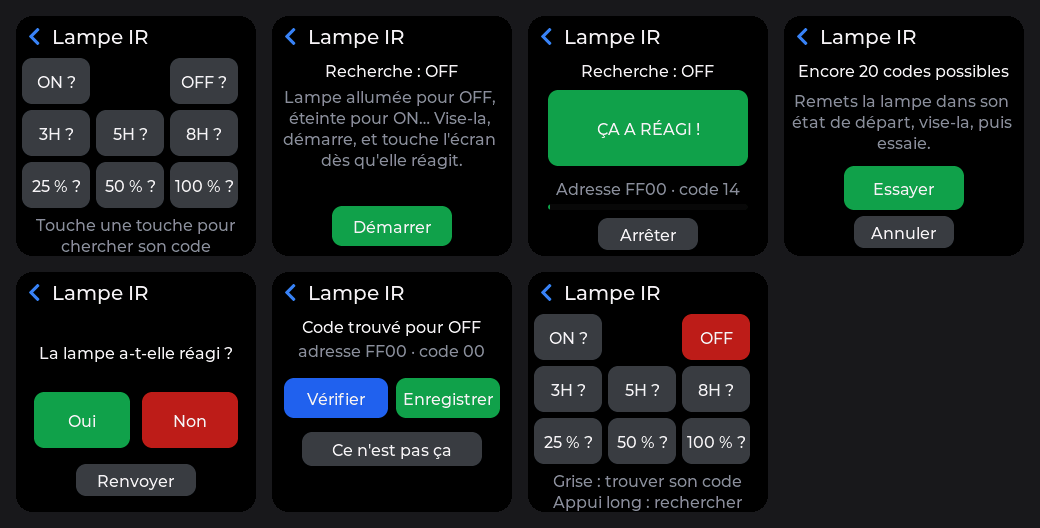
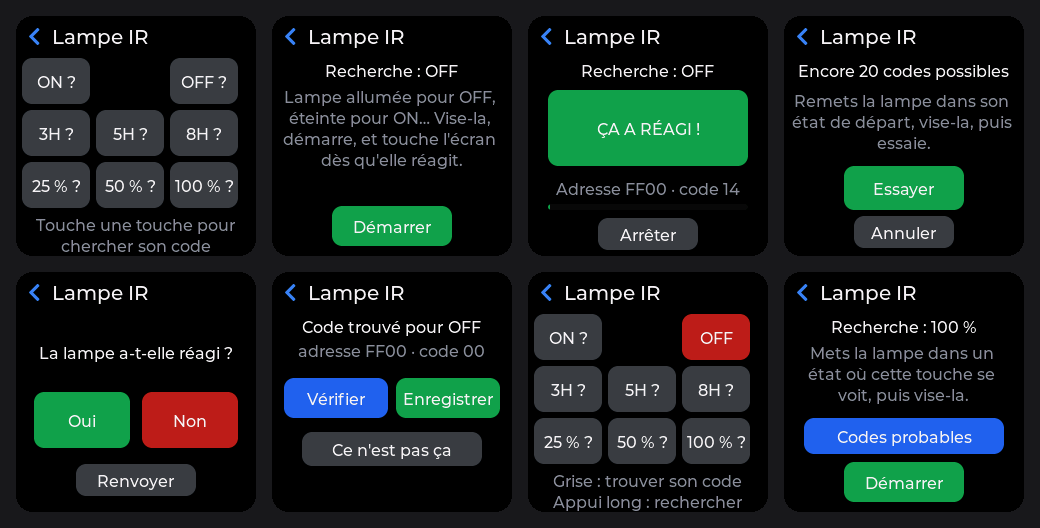
0.32.2 : Lampe IR, retour vers la grille et codes probables
Le retour (bouton ou glissé) depuis une recherche ou l'écran d'un code
revient à la grille au lieu de quitter l'app (nouveau rappel optionnel
on_back() dans app_t). « Codes probables » : recherche par moitiés
directement sur les 21 codes de la télécommande NEC « Car MP3 », que
reprennent beaucoup de lampes solaires.

Claude-Session: https://claude.ai/code/session_01Nqsr6dMwaT8y4hmR3wyTbr

Changed region(s): [[0.7385, 0.5152, 0.9846, 0.9697]]

diff --git a/main/app_irlamp.c b/main/app_irlamp.c
@@ -212,6 +212,36 @@ static void scan_begin(int32_t from)
 }
 
 static void start_cb(lv_event_t *e) { scan_begin(0); }
+
+/* Les 21 codes de la télécommande chinoise « Car MP3 » (NEC), que reprennent
+ * beaucoup de lampes solaires : on les essaie directement par moitiés. */
+static const uint8_t CARMP3[] = {
+    0x45, 0x46, 0x47, 0x44, 0x40, 0x43, 0x07, 0x15, 0x09, 0x16, 0x19,
+    0x0D, 0x0C, 0x18, 0x5E, 0x08, 0x1C, 0x5A, 0x42, 0x52, 0x4A,
+};
+
+static bool known_addr(uint16_t *a)
+{
+    for (int k = 0; k < NKEY; k++) if (s_keys.valid & (1 << k)) { *a = s_keys.addr[k]; return true; }
+    return false;
+}
+
+static void likely_cb(lv_event_t *e)
+{
+    uint16_t a;
+    if (!known_addr(&a)) return;
+    s_ncand = 0;
+    for (size_t i = 0; i < sizeof CARMP3; i++) {
+        bool used = false;                                 /* déjà pris par une autre touche */
+        for (int k = 0; k < NKEY; k++)
+            if (k != s_key && (s_keys.valid & (1 << k)) && s_keys.addr[k] == a && s_keys.cmd[k] == CARMP3[i]) used = true;
+        if (!used) s_cand[s_ncand++] = (sent_t){ a, CARMP3[i], 0, 0 };
+    }
+    s_pos = 0;
+    s_tries = 0;
+    s_half = s_ncand / 2;
+    set_state(ST_TRY);
+}
 static void back_cb(lv_event_t *e) { s_stop = true; set_state(ST_KEYS); }
 
 static void react_cb(lv_event_t *e)
@@ -258,7 +288,7 @@ static void save_cb(lv_event_t *e)
     set_state(ST_KEYS);
 }
 
-static void wrong_cb(lv_event_t *e) { scan_begin(s_cand[0].idx + 1); }
+static void wrong_cb(lv_event_t *e) { scan_begin(s_cand[0].idx + 1); }   /* reprend le balayage après lui */
 
 static void forget_cb(lv_event_t *e)
 {
@@ -327,11 +357,20 @@ static void build(void)
             text(b, 4, C_FG);
             snprintf(b, sizeof b, _("adresse %04X · code %02X"), s_keys.addr[s_key], s_keys.cmd[s_key]);
             text(b, 28, lv_color_hex(0xFACC15));
-            text(_("Démarrer : chercher à nouveau ce code."), 64, C_DIM);
+            text(_("Démarrer : chercher à nouveau ce code."), 56, C_DIM);
         } else {
             snprintf(b, sizeof b, _("Recherche : %s"), KEY_NAME[s_key]);
             text(b, 4, C_FG);
-            text(_("Lampe allumée pour OFF, éteinte pour ON… Vise-la, démarre, et touche l'écran dès qu'elle réagit."), 30, C_DIM);
+            uint16_t a0;
+            if (known_addr(&a0)) text(_("Mets la lampe dans un état où cette touche se voit, puis vise-la."), 30, C_DIM);
+            else text(_("Lampe allumée pour OFF, éteinte pour ON… Vise-la, démarre, et touche l'écran dès qu'elle réagit."), 30, C_DIM);
+        }
+        {
+            uint16_t a;
+            if (known_addr(&a)) {                              /* adresse connue : 21 codes probables */
+                btn(v_body, _("Codes probables"), blue, likely_cb, NULL, 200, 36);
+                lv_obj_align(lv_obj_get_child(v_body, -1), LV_ALIGN_TOP_MID, 0, 106);
+            }
         }
         btn(v_body, _("Démarrer"), green, start_cb, NULL, 120, 40);
         lv_obj_align(lv_obj_get_child(v_body, -1), LV_ALIGN_TOP_MID, s_keys.valid & (1 << s_key) ? -62 : 0, 150);
@@ -432,6 +471,14 @@ static bool on_event(int code) { refresh(); return false; }
 static bool busy(void) { return s_run; }
 static bool keep_on(void) { return st != ST_KEYS; }
 
+static bool on_back(void)
+{
+    if (st == ST_KEYS) return false;                       /* écran principal : on quitte */
+    s_stop = true;
+    set_state(ST_KEYS);
+    return true;
+}
+
 const app_t app_irlamp = {
     .name = N_("Lampe IR"),
     .icon = LV_SYMBOL_CHARGE,
@@ -443,4 +490,5 @@ const app_t app_irlamp = {
     .on_event = on_event,
     .busy = busy,
     .keep_screen_on = keep_on,
+    .on_back = on_back,
 };

diff --git a/main/i18n.c b/main/i18n.c
@@ -443,6 +443,8 @@ static const tr_t EN[] = {
     { "Ce n'est pas ça", "That's not it" },
     { "Aucune réaction sur toutes les adresses essayées. La lampe utilise peut-être un autre protocole : il faudra relever ses codes avec un récepteur.", "No reaction on any address tried. The lamp may use another protocol: its codes will have to be read with a receiver." },
     { "Retour", "Back" },
+    { "Codes probables", "Likely codes" },
+    { "Mets la lampe dans un état où cette touche se voit, puis vise-la.", "Put the lamp in a state where this key shows, then aim at it." },
     { "Démarrer : chercher à nouveau ce code.", "Start: search for this code again." },
     { "Lampe IR", "IR lamp" },
 };

diff --git a/main/app.h b/main/app.h
@@ -41,6 +41,9 @@ typedef struct app_s {
     /* optionnel : true = rien ne s'affiche par-dessus (jeu) ; les notifs
      * restent dans la liste, sans bannière ni vibration. Les appels passent. */
     bool (*no_interrupt)(void);
+    /* optionnel : bouton retour ou glissé → ; true = géré par l'app (retour à
+     * son écran principal), false = on quitte l'app */
+    bool (*on_back)(void);
 } app_t;
 
 /* registre (apps.c) */

diff --git a/main/ui.c b/main/ui.c
@@ -958,6 +958,7 @@ static scr_id_t menu_parent(scr_id_t id)
 
 static void back_cb(lv_event_t *ev)
 {
+    if (s_cur == SCR_APP && s_app_cur && s_app_cur->on_back && s_app_cur->on_back()) return;
     if (s_cur == SCR_OTA && ota_active()) {
         toast(o_app >= 0 ? _("Annuler d'abord les réglages") : _("Annuler d'abord la mise à jour"));
         return;

diff --git a/docs/fr/irlamp.md b/docs/fr/irlamp.md
@@ -32,6 +32,12 @@ Dès qu'une touche est connue, les suivantes vont beaucoup plus vite : la montre
 que l'adresse de la lampe, en partant des codes voisins (sur ces télécommandes, les touches ont
 souvent des codes qui se suivent).
 
+**Codes probables** : une fois une touche trouvée, ce bouton essaie directement, par moitiés,
+les 21 codes de la télécommande chinoise « Car MP3 » (NEC, adresse 0x00), que reprennent
+beaucoup de lampes solaires : pas de balayage, 4 ou 5 essais. Sur ce modèle, les touches
+valent, rangée par rangée : 45 46 47 · 44 40 43 · 07 15 09 · 16 19 0D · 0C 18 5E · 08 1C 5A ·
+42 52 4A.
+
 Commence par **OFF** (ou **ON**) : c'est le plus visible. Les minuteries ne se voient pas
 toujours ; certaines lampes clignotent pour confirmer.
 
@@ -39,7 +45,8 @@ toujours ; certaines lampes clignotent pour confirmer.
 
 Une touche connue s'affiche en couleur : la toucher envoie le code (deux fois, par sécurité),
 avec une petite vibration. **Appui long** sur une touche : son adresse et son code NEC s'affichent, avec de quoi la
-chercher à nouveau ou l'oublier.
+chercher à nouveau ou l'oublier. Le bouton retour (ou glisser vers la droite) ramène à la
+grille ; depuis la grille, il quitte l'app.
 Les codes sont gardés en mémoire.
 
 Si aucune adresse ne fait réagir la lampe, elle utilise sans doute un autre protocole que

diff --git a/docs/en/irlamp.md b/docs/en/irlamp.md
@@ -29,6 +29,11 @@ itself, key by key.
 Once one key is known, the next ones go much faster: the watch only sweeps the lamp's address,
 starting from the neighbouring codes (on these remotes, keys often have consecutive codes).
 
+**Likely codes**: once one key is found, this button directly tries, by halves, the 21 codes
+of the Chinese "Car MP3" remote (NEC, address 0x00), which many solar lamps reuse: no sweep,
+4 or 5 tries. On that model the keys are, row by row: 45 46 47 · 44 40 43 · 07 15 09 ·
+16 19 0D · 0C 18 5E · 08 1C 5A · 42 52 4A.
+
 Start with **OFF** (or **ON**): it is the most visible. Timers do not always show; some lamps
 blink to confirm.
 
@@ -36,7 +41,7 @@ blink to confirm.
 
 A known key shows in colour: tapping it sends the code (twice, to be safe), with a short
 vibration. **Long press** a key to see its NEC address and code, and to search for it again or forget
-it. Codes are kept in memory.
+it. The back button (or swiping right) returns to the grid; from the grid, it leaves the app. Codes are kept in memory.
 
 If no address makes the lamp react, it probably uses another protocol than NEC: its codes will
 have to be read with an infrared receiver (a TSOP38238 on an ESP32 with IRremoteESP8266's

diff --git a/CHANGELOG.md b/CHANGELOG.md
@@ -2,6 +2,15 @@
 
 All notable changes. Versions follow `PROJECT_VER` in `CMakeLists.txt`.
 
+## 0.32.2 — 2026-11-22
+
+- IR lamp: back (button or swipe) from a search or code screen now returns to the key grid
+  instead of leaving the app. Apps can handle back themselves with the new optional
+  `on_back()` callback in `app_t`.
+- IR lamp: **Likely codes** — once the address is known, a halving search over the 21 codes of
+  the common Chinese "Car MP3" NEC remote, which many solar lamps reuse (ON 45, OFF 47, 25 %
+  0C, 50 % 18 here, so 100 % is most likely 5E): 4–5 tries, no sweep.
+
 ## 0.32.1 — 2026-11-22
 
 - IR lamp: a long press on a known key now shows its NEC address and code (besides search
